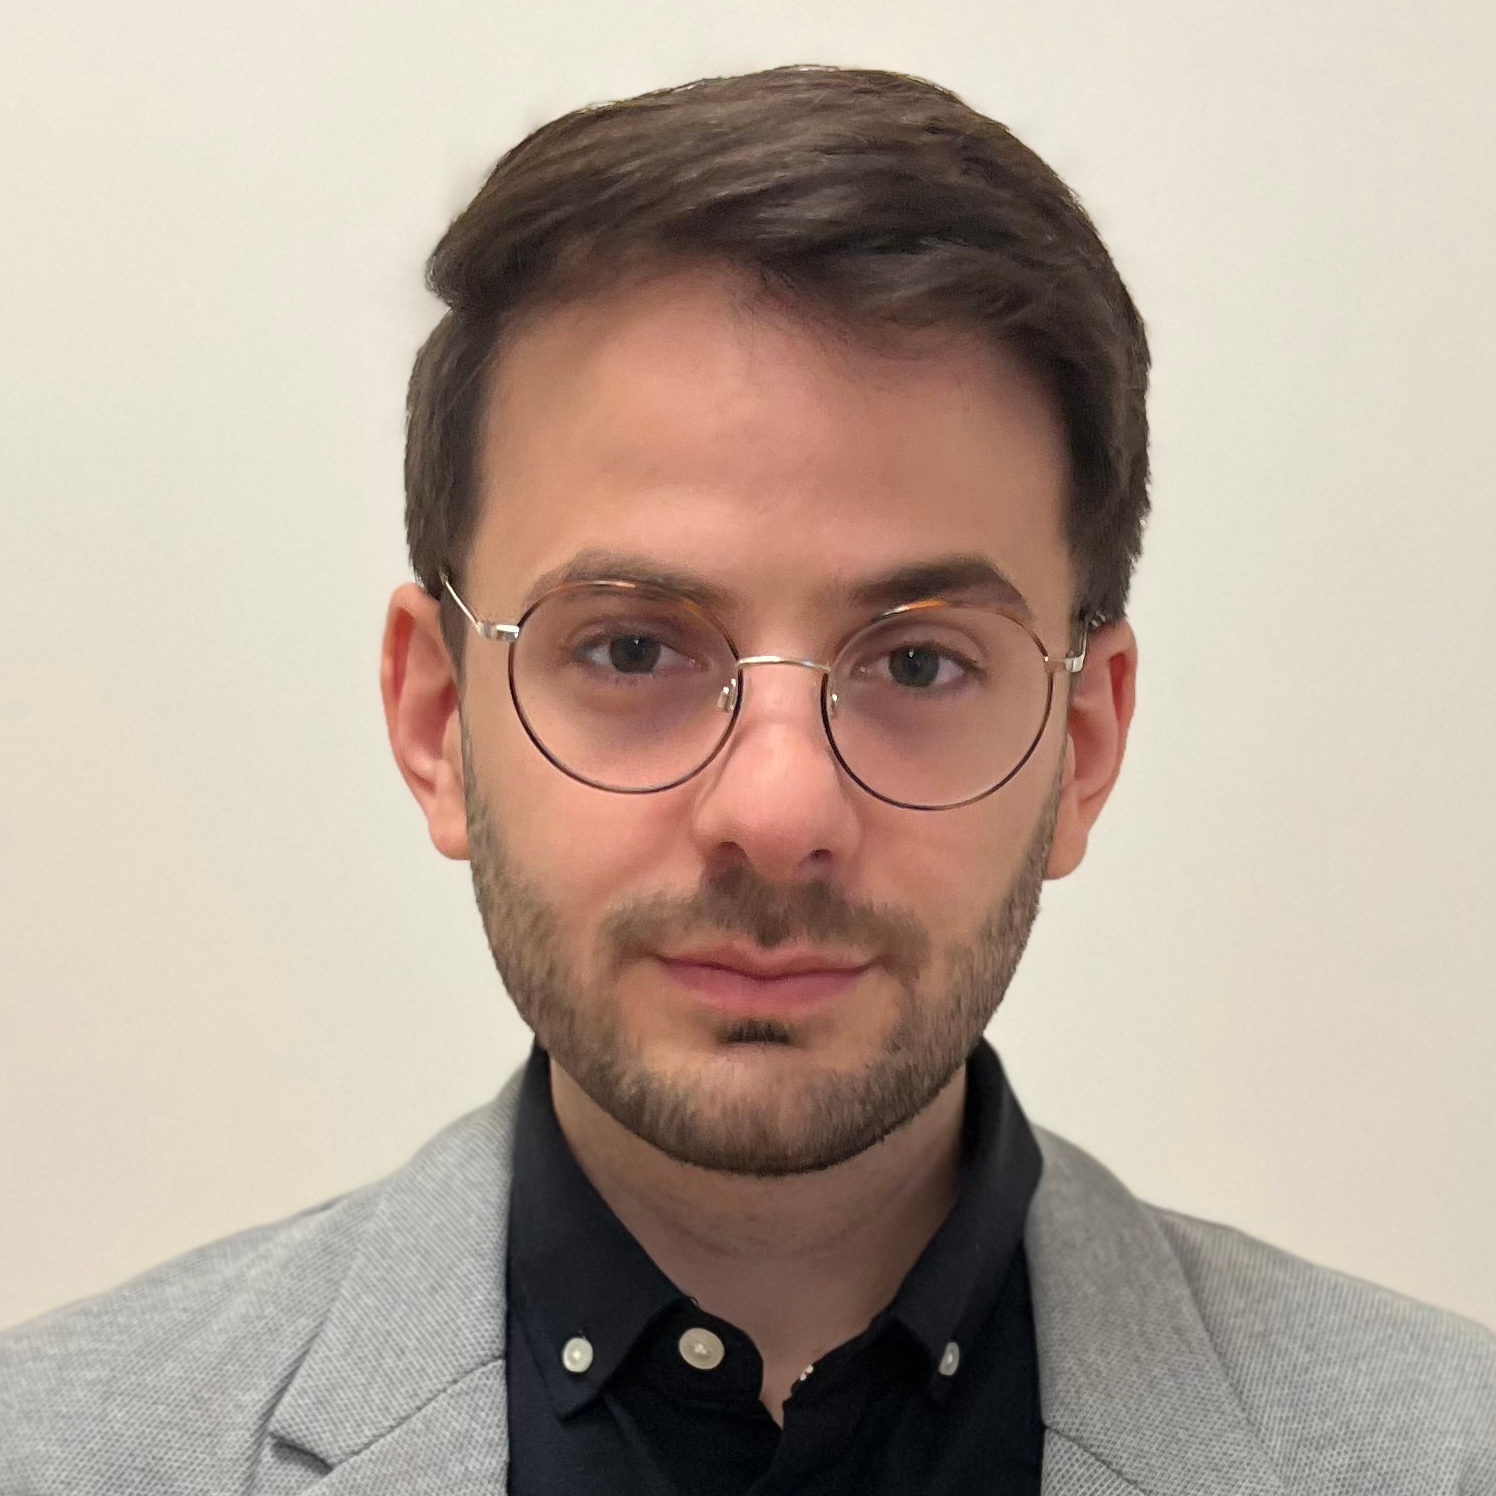
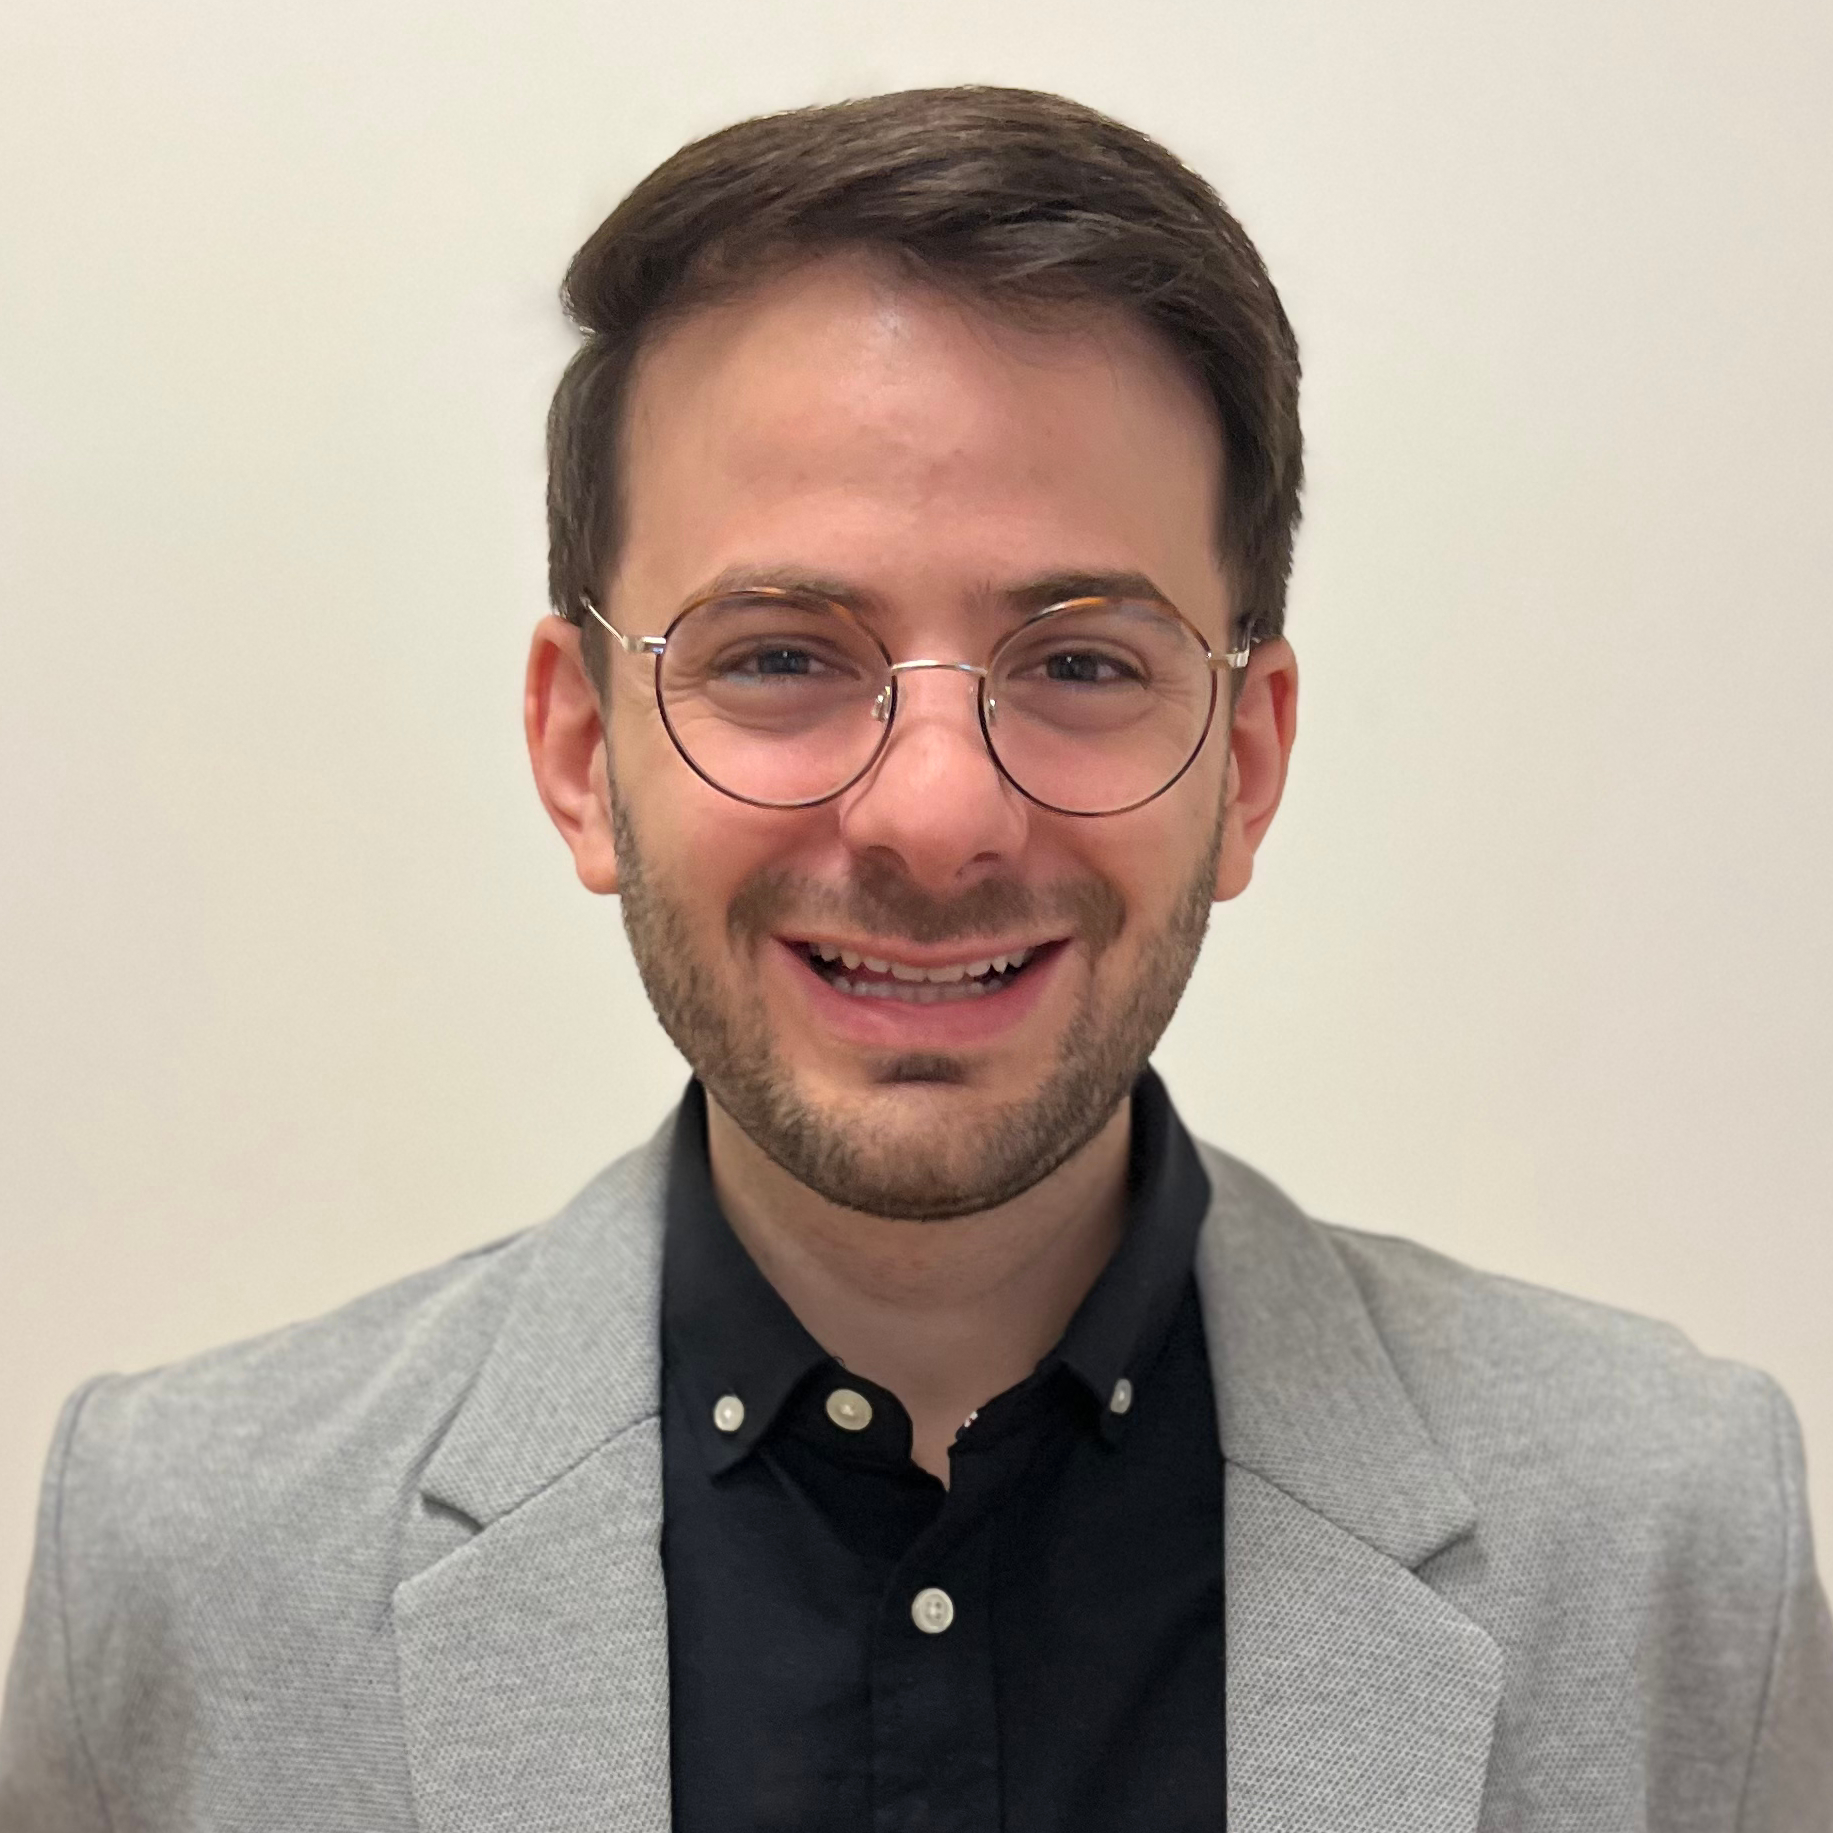
Updated homepage flex wrap and a few images.

diff --git a/assets/scss/template.scss b/assets/scss/template.scss
@@ -78,7 +78,9 @@ a.nav-link.active:after {
   font-weight: normal !important;
 }
 
-
+.hero-lead {
+  max-width: 100%;
+}
 
 .home-section {
   padding: 30px 0px;

diff --git a/content/_index.md b/content/_index.md
@@ -29,9 +29,9 @@ sections:
       #     foo       
       # Add your Hero text here
       text: |
-        <div style="display: flex; flex-direction: row; flex-wrap: nowrap; align-items: start">
-        <img class="avatar avatar" src="/images/nr_headshot_v1.jpg" alt="Nicholas Rhinehart">
-        <div style="align-self: top; font-size: medium; text-align: top; padding-left: 20px;">
+        <div style="display: flex; justify-content: flex-start; flex-direction: row; align-items: start; flex-wrap: wrap; width: 100%">
+        <img class="avatar avatar-circle" src="/images/nr_headshot_v1.jpg" alt="Nicholas Rhinehart" style="width: 250px; height: 100%; margin: 0;">
+        <div style="align-self: top; font-size: medium; text-align: top; padding-left: 20px; min-width: 250px; max-width: 500px">
           Welcome to the Learning, Embodied Autonomy, and Forecasting (LEAF) lab, part of the <a href="https://utoronto.ca" target="_blank">University of Toronto</a>, <a href="https://utias.utoronto.ca" target="_blank">UTIAS</a>, and the <a href="https://robotics.utoronto.ca" target="_blank">Robotics Institute</a>. We aim to develop broadly useful autonomous systems that operate in complex, dynamic environments by advancing the algorithmic foundations of robot learning.
           <br><br>         
           Our research spans topics within <a href="./tag/robotics">robotics</a>, <a href="./tag/machine-learning">machine learning</a>, and <a href="./tag/computer-vision">computer vision</a>, and includes <a href="./tag/forecasting">forecasting</a>, <a href="./tag/imitation-learning">imitation learning</a>, <a href="./tag/reinforcement-learning">reinforcement learning</a>, <a href="./tag/reward-learning">reward learning</a>, and <a href="./tag/planning">planning</a>. The LEAF lab is led by <a href="author/nicholas-rhinehart/">Prof. Nick Rhinehart</a>.
